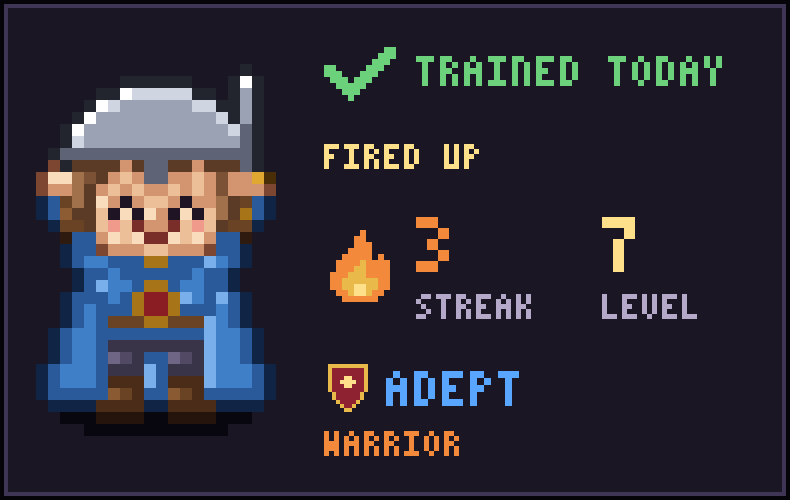
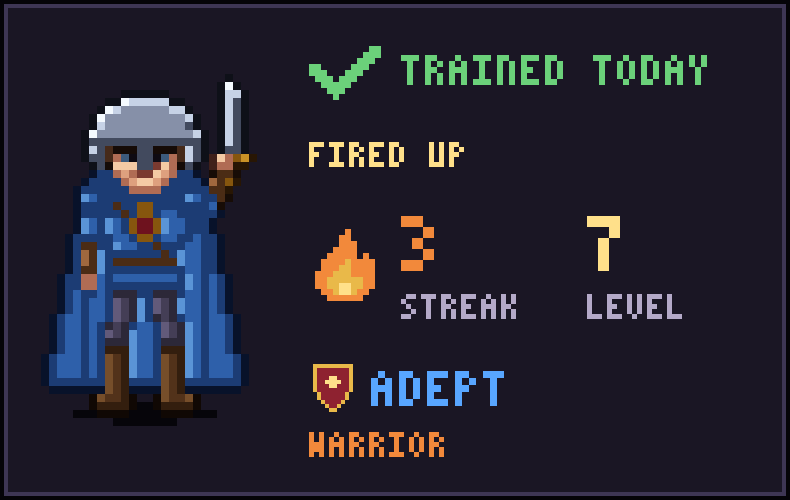
fix: companion widget layout uses the 6.13 sprite and body, ADR-062 after the rebase (6.12)

diff --git a/src/widget/widgetLayout.test.ts b/src/widget/widgetLayout.test.ts
@@ -288,8 +288,14 @@ describe('the companion widget layout (PLAN 6.12)', () => {
     expect(sprite(happy)?.height).toBeGreaterThanOrEqual(0.7 * happy.inner.height);
   });
 
-  it('stacks the sprite over the lines on a squarer widget', () => {
-    expect(companionLayout(longView, 395, 380).sizeClass).toBe('grid');
+  it('grows the sprite when the widget is resized taller', () => {
+    const small = companionLayout(longView, 395, 250);
+    const tall = companionLayout(longView, 395, 380);
+    expect(tall.spritePixel ?? 0).toBeGreaterThan(small.spritePixel ?? 0);
+  });
+
+  it('stacks the sprite over the lines when the widget is slim and tall', () => {
+    expect(['grid', 'tall']).toContain(companionLayout(longView, 228, 380).sizeClass);
   });
 
   it('falls back to the small layout without a companion in the snapshot', () => {

diff --git a/src/widget/widgetLayout.ts b/src/widget/widgetLayout.ts
@@ -762,10 +762,11 @@ export function companionLayout(view: WidgetView, widthDp: number, heightDp: num
   // The mood's first frame without the empty canvas around it: the sprite takes only the space
   // its pixels need (the pose, weapon and accessories decide how much).
   const rows = trimPixelRows(
-    companionStill(view.companion.mood, {
-      loadout: view.companion.loadout,
-      weapon: view.companion.weapon,
-    }),
+    companionStill(
+      view.companion.mood,
+      { loadout: view.companion.loadout, weapon: view.companion.weapon },
+      view.companion.look,
+    ),
   );
   const sprite = (pixel: number): WidgetSprite => ({ type: 'sprite', pixel, rows });
   const maxPixel = Math.max(

diff --git a/docs/DECISIONS.md b/docs/DECISIONS.md
@@ -2107,10 +2107,12 @@ Template:
     attribute; arrangements at scale 1 or more (the 6.6 sizes) always beat smaller ones, and
     below that only scale × fill counts (on the emulator a 2 × 1 at 0.9 crammed in rank, class
     and a stat in 9 dp labels; the two-line status at 1.1 reads better). The companion adds the
-    sprite size (whole dp per sprite pixel, 2 and up, crisp) and scores pixel^0.75 × scale × fill
-    (with pixel × scale the sprite grew until the text was at 0.9). The sprite is its mood frame
-    trimmed to the painted pixels (`trimPixelRows`): the 32 × 40 canvas has empty rows above the
-    head, which on the 4 × 3 widget showed as a band. Free space is spread with `space-evenly` /
+    sprite size (whole dp per sprite pixel, 2 and up, crisp) and scores pixel × scale × fill,
+    readable text first (the sprite grows only while the text stays at scale 1 or more). The
+    sprite is its mood frame trimmed to the painted pixels (`trimPixelRows`): the 6.10 canvas
+    had empty rows above the head, which on the 4 × 3 widget showed as a band, and a pose's
+    width (a raised weapon, a kneeling sad pose) differs per mood; the layout uses the frame
+    it draws, so it works for any canvas size (6.13 made it 32 × 44). Free space is spread with `space-evenly` /
     `space-between` (the root box fills the widget), so what is left is small and even.
   - **Font sizes in dp** (`allowFontScaling: false`): the layout fits the text to the widget's
     size; the system font scale would make it overflow and clip. The user scales the widget by

diff --git a/docs/DESIGN.md b/docs/DESIGN.md
@@ -435,8 +435,8 @@ strings (`iconSvg`, crisp edges).
   would clip it; a bigger widget is the way to bigger text.
 - **Companion sprite:** its mood's first frame trimmed to its painted pixels (`trimPixelRows`), a
   whole number of dp per sprite pixel (2 and up, crisp), on a transparent background so it stands
-  straight on the widget surface (no box). It grows while the text keeps a good size (6 dp per
-  pixel, about 186 dp tall, next to the lines at 1.6 on the Pixel 8 Pro's 4 × 2).
+  straight on the widget surface (no box). It grows while the text stays at scale 1 or more (on
+  the Pixel 8 Pro's 4 × 2, 4–5 dp per pixel, most of the height, next to the lines at 1.5–1.7).
 - **Sizes (app.json):** small default 4 × 1 (min 110 × 40 dp, at most 300 dp tall: two rows),
   companion default 4 × 2 (min 300 × 110 dp); both resizable both ways.
 - **First run (no snapshot yet):** `sword` + "SkillForge" in gold + "OPEN THE APP TO BEGIN", in a
